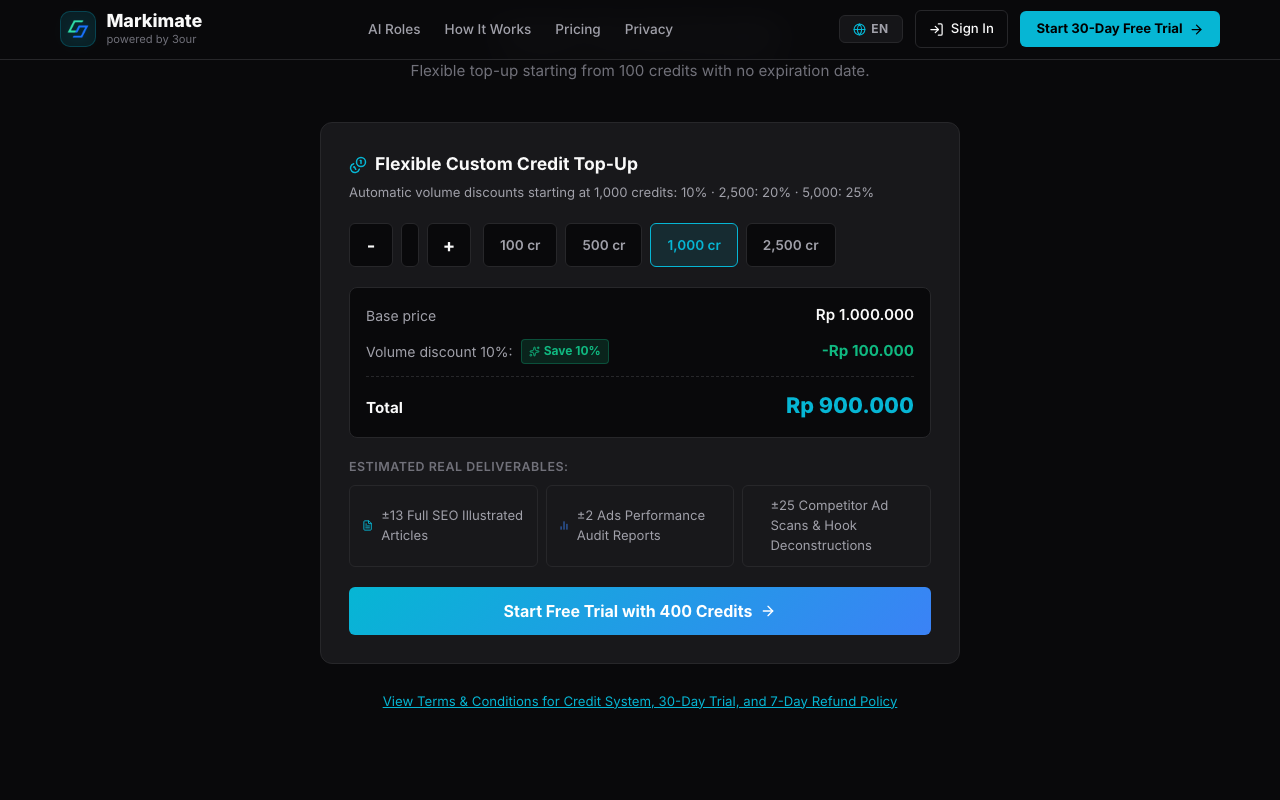
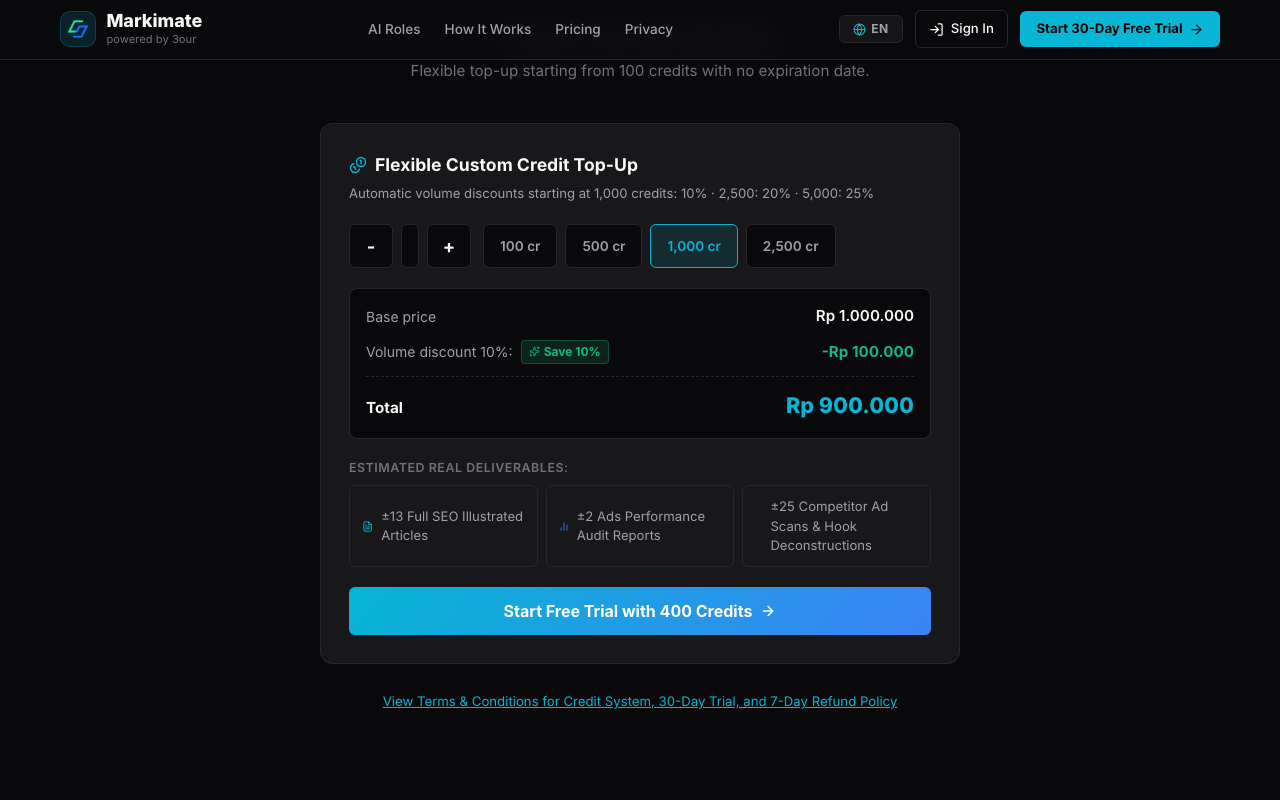
feat(pricing): hapus paket 500 cr, starter mulai 1000 cr dan highlight pro (PRD F16b)

diff --git a/backend/tests/pack-checkout.test.js b/backend/tests/pack-checkout.test.js
@@ -166,22 +166,31 @@ async function runPackCheckoutTests() {
   assert.strictEqual(payment2500.item_id, 'pack_2500');
   console.log('   OK - Checkout pack_2500 sukses dengan prefix P dan amount server-calculated.');
 
-  // 2b. Checkout pack_500 -> amount 500.000 dan credits 500 (PRD F16b §4)
-  console.log('2b. Menguji checkout pack_500 (Rp500.000, 500 credits)...');
+  // 2b. Checkout pack_1000 -> amount 900.000 dan credits 1000 (Starter)
+  console.log('2b. Menguji checkout pack_1000 (Rp900.000, 1000 credits, Starter)...');
+  const res1000 = await req('/api/billing/pack', {
+    method: 'POST',
+    headers: authHeaders,
+    body: { itemId: 'pack_1000', amount: 999 }
+  });
+  assert.strictEqual(res1000.status, 200, 'Checkout pack_1000 harus 200 OK');
+  assert.strictEqual(res1000.data.amount, 900000, 'Server wajib menagih Rp900.000 untuk pack_1000');
+
+  const payment1000 = await db.findOne('payments', { invoice_number: res1000.data.invoiceNumber });
+  assert.strictEqual(payment1000.amount, 900000);
+  assert.strictEqual(payment1000.credits, 1000);
+  assert.strictEqual(payment1000.kind, 'pack');
+  assert.strictEqual(payment1000.item_id, 'pack_1000');
+  console.log('   OK - Checkout pack_1000 sukses dengan amount Rp900.000.');
+
+  // 2c. pack_500 sudah dihapus -> 400 INVALID_PACK
   const res500 = await req('/api/billing/pack', {
     method: 'POST',
     headers: authHeaders,
-    body: { itemId: 'pack_500', amount: 999 }
+    body: { itemId: 'pack_500' }
   });
-  assert.strictEqual(res500.status, 200, 'Checkout pack_500 harus 200 OK');
-  assert.strictEqual(res500.data.amount, 500000, 'Server wajib menagih Rp500.000 untuk pack_500');
-
-  const payment500 = await db.findOne('payments', { invoice_number: res500.data.invoiceNumber });
-  assert.strictEqual(payment500.amount, 500000);
-  assert.strictEqual(payment500.credits, 500);
-  assert.strictEqual(payment500.kind, 'pack');
-  assert.strictEqual(payment500.item_id, 'pack_500');
-  console.log('   OK - Checkout pack_500 sukses dengan amount Rp500.000.');
+  assert.strictEqual(res500.status, 400, 'pack_500 yang sudah dihapus harus menghasilkan 400');
+  assert.strictEqual(res500.data.code, 'INVALID_PACK');
 
   // 3. Validasi itemId tidak dikenal -> 400 INVALID_PACK (PRD F16 §7)
   console.log('3. Menguji validasi itemId pack tidak dikenal -> 400...');

diff --git a/backend/tests/pricing-parity.test.js b/backend/tests/pricing-parity.test.js
@@ -46,8 +46,8 @@ async function runPricingParityTests() {
 
   // 2. Uji Kesetaraan dan Rumus Matematis CREDIT_PACKS
   console.log('2. Memverifikasi kesetaraan dan rumus harga CREDIT_PACKS (BE vs FE)...');
-  assert.deepStrictEqual(Object.keys(BE_CREDIT_PACKS), ['pack_500', 'pack_1000', 'pack_2500', 'pack_5000']);
-  assert.deepStrictEqual(Object.keys(FE_CREDIT_PACKS), ['pack_500', 'pack_1000', 'pack_2500', 'pack_5000']);
+  assert.deepStrictEqual(Object.keys(BE_CREDIT_PACKS), ['pack_1000', 'pack_2500', 'pack_5000']);
+  assert.deepStrictEqual(Object.keys(FE_CREDIT_PACKS), ['pack_1000', 'pack_2500', 'pack_5000']);
 
   for (const packKey of Object.keys(BE_CREDIT_PACKS)) {
     const bePack = BE_CREDIT_PACKS[packKey];
@@ -68,10 +68,11 @@ async function runPricingParityTests() {
     );
   }
 
-  // Nilai nominal spesifik PRD F16b §2
-  assert.strictEqual(BE_CREDIT_PACKS.pack_500.price, 500000, 'Starter 500 must be Rp500.000 (0% diskon)');
-  assert.strictEqual(BE_CREDIT_PACKS.pack_500.discount, 0, 'Starter 500 discount must be 0');
-  assert.strictEqual(BE_CREDIT_PACKS.pack_1000.price, 900000, 'Growth 1000 must be Rp900.000 (-10%)');
+  // Nilai nominal spesifik: Starter 1000, Pro 2500, Agency 5000
+  assert.strictEqual(BE_CREDIT_PACKS.pack_500, undefined, 'pack_500 harus dihapus');
+  assert.strictEqual(BE_CREDIT_PACKS.pack_1000.name, 'Starter', 'pack_1000 name must be Starter');
+  assert.strictEqual(BE_CREDIT_PACKS.pack_1000.price, 900000, 'Starter 1000 must be Rp900.000 (-10%)');
+  assert.strictEqual(BE_CREDIT_PACKS.pack_1000.discount, 0.10, 'Starter 1000 discount must be 10%');
   assert.strictEqual(BE_CREDIT_PACKS.pack_2500.price, 2000000, 'Pro 2500 must be Rp2.000.000 (-20%)');
   assert.strictEqual(BE_CREDIT_PACKS.pack_5000.price, 3750000, 'Agency 5000 must be Rp3.750.000 (-25%)');
 
@@ -148,7 +149,7 @@ async function runPricingParityTests() {
   assert.strictEqual(cat.topup.min, 100);
   assert.strictEqual(cat.topup.neverExpires, true);
   assert.deepStrictEqual(cat.topup.tiers, BE_TOPUP.tiers);
-  assert.strictEqual(cat.packs.length, 4, 'getCatalog() wajib memuat 4 paket credit');
+  assert.strictEqual(cat.packs.length, 3, 'getCatalog() wajib memuat 3 paket credit (Starter 1000, Pro 2500, Agency 5000)');
   assert.strictEqual(cat.trial.days, 30);
   assert.strictEqual(cat.trial.credits, 400);
 

diff --git a/frontend/src/i18n/locales/en/public.js b/frontend/src/i18n/locales/en/public.js
@@ -148,7 +148,7 @@ export const publicTranslations = {
     "q9": "Is there a money-back refund guarantee?",
     "a9": "Full refund within {days} calendar days of purchase if none of the credits from that purchase have been used.",
     "q10": "What happens if my credit balance runs out?",
-    "a10": "You can easily replenish your balance anytime via 4 credit pack options (10–25% discount starting from 1,000 credits) or custom top-up starting from {min} credits, and the same discount applies automatically to custom top-up. Credits are added instantly and never expire."
+    "a10": "You can easily replenish your balance anytime via 3 credit pack options (10–25% discount starting from 1,000 credits) or custom top-up starting from {min} credits, and the same discount applies automatically to custom top-up. Credits are added instantly and never expire."
   },
   "finalCta": {
     "title": "Ready to Scale Your Marketing with AI?",

diff --git a/frontend/src/i18n/locales/id/public.js b/frontend/src/i18n/locales/id/public.js
@@ -148,7 +148,7 @@ export const publicTranslations = {
     "q9": "Apakah ada garansi uang kembali (refund)?",
     "a9": "Refund penuh dalam {days} hari kalender jika kredit dari pembelian tersebut belum digunakan sama sekali.",
     "q10": "Bagaimana jika saldo kredit habis di tengah pemakaian?",
-    "a10": "Anda dapat mengisi ulang saldo secara fleksibel kapan saja melalui 4 pilihan paket kredit (diskon 10–25% mulai 1.000 kredit) atau top-up custom mulai {min} kredit, dan diskon yang sama berlaku otomatis di top-up custom. Kredit langsung masuk dan tidak pernah hangus."
+    "a10": "Anda dapat mengisi ulang saldo secara fleksibel kapan saja melalui 3 pilihan paket kredit (diskon 10–25% mulai 1.000 kredit) atau top-up custom mulai {min} kredit, dan diskon yang sama berlaku otomatis di top-up custom. Kredit langsung masuk dan tidak pernah hangus."
   },
   "finalCta": {
     "title": "Siap Tingkatkan Pemasaran dengan Tim AI?",

diff --git a/frontend/src/components/BillingPage.jsx b/frontend/src/components/BillingPage.jsx
@@ -168,7 +168,7 @@ export default function BillingPage({ refreshMe }) {
       <div style={styles.packsGrid}>
         {Object.values(CREDIT_PACKS).map((pack) => {
           const discountPct = Math.round(pack.discount * 100);
-          const isPopular = pack.id === 'pack_1000';
+          const isPopular = pack.id === 'pack_2500';
           return (
             <div
               key={pack.id}
@@ -186,7 +186,7 @@ export default function BillingPage({ refreshMe }) {
               )}
               <div style={{ display: 'flex', justifyContent: 'space-between', alignItems: 'center' }}>
                 <h3 style={styles.packName}>{pack.name}</h3>
-                {!isPopular && discountPct > 0 && (
+                {discountPct > 0 && (
                   <span style={styles.discountBadge}>
                     {t('billing.savePctBadge', { pct: discountPct })}
                   </span>

diff --git a/frontend/src/pages/public/LandingPage.jsx b/frontend/src/pages/public/LandingPage.jsx
@@ -551,7 +551,7 @@ export default function LandingPage({ scrollToPricing = false }) {
             <div style={styles.packsGrid}>
               {Object.values(CREDIT_PACKS).map((pack) => {
                 const discountPct = Math.round(pack.discount * 100);
-                const isPopular = pack.id === 'pack_1000';
+                const isPopular = pack.id === 'pack_2500';
                 return (
                   <div
                     key={pack.id}

diff --git a/frontend/src/pages/billing/CreditWalletPage.jsx b/frontend/src/pages/billing/CreditWalletPage.jsx
@@ -411,7 +411,7 @@ export default function CreditWalletPage({ me, onTopupClick }) {
       <div style={styles.packsGrid}>
         {Object.values(CREDIT_PACKS).map((pack) => {
           const discountPct = Math.round(pack.discount * 100);
-          const isPopular = pack.id === 'pack_1000';
+          const isPopular = pack.id === 'pack_2500';
           const isBuyingThis = topupBusy === pack.id;
           return (
             <div

diff --git a/backend/lib/catalog.js b/backend/lib/catalog.js
@@ -82,8 +82,7 @@ export function quoteTopup(credits) {
 // PRD F16b §3.1: Harga paket DITURUNKAN dari quoteTopup, bukan ditulis langsung
 export const CREDIT_PACKS = Object.fromEntries(
   [
-    ['pack_500', 'Starter', 500],
-    ['pack_1000', 'Growth', 1000],
+    ['pack_1000', 'Starter', 1000],
     ['pack_2500', 'Pro', 2500],
     ['pack_5000', 'Agency', 5000]
   ].map(([id, name, credits]) => [

diff --git a/frontend/src/config/pricing.js b/frontend/src/config/pricing.js
@@ -82,8 +82,7 @@ export function quoteTopup(credits) {
 // PRD F16b §3.1: Harga paket DITURUNKAN dari quoteTopup, bukan ditulis langsung
 export const CREDIT_PACKS = Object.fromEntries(
   [
-    ['pack_500', 'Starter', 500],
-    ['pack_1000', 'Growth', 1000],
+    ['pack_1000', 'Starter', 1000],
     ['pack_2500', 'Pro', 2500],
     ['pack_5000', 'Agency', 5000]
   ].map(([id, name, credits]) => [

diff --git a/docs/reports/F16b-diskon-volume.md b/docs/reports/F16b-diskon-volume.md
@@ -20,10 +20,10 @@ Sesuai keputusan 3Our pada PRD F16b:
   - ≥ 5.000 (maks 50.000): 25% diskon (Rp750/cr)
 - **Satu aturan harga tunggal:** Harga untuk N credit selalu sama, baik dibeli lewat paket credit maupun top-up custom.
 - **Harga paket kredit DITURUNKAN dari `quoteTopup(credits).amount`**, bukan di-hardcode:
-  - Starter (500 cr): Rp500.000 (diskon 0%, tanpa badge diskon)
-  - Growth (1.000 cr): Rp900.000 (diskon 10%, badge Hemat 10% · Paling populer)
-  - Pro (2.500 cr): Rp2.000.000 (diskon 20%, badge Hemat 20%)
+  - Starter (1.000 cr): Rp900.000 (diskon 10%, badge Hemat 10%)
+  - Pro (2.500 cr): Rp2.000.000 (diskon 20%, badge Hemat 20% · BEST VALUE / Paling Populer)
   - Agency (5.000 cr): Rp3.750.000 (diskon 25%, badge Hemat 25%)
+  - *(Paket 500 cr dihapus dari daftar paket kredit; kredit mulai dari 1.000 cr untuk paket, sedangkan nominal di bawah 1.000 cr dapat dibeli via Custom Top-Up)*.
 
 ---
 
@@ -196,43 +196,43 @@ Pengambilan screenshot dilakukan menggunakan Google Chrome Headless CDP (`captur
 
 | No | File Screenshot | Viewport | Bahasa | Ukuran Byte | Hash MD5 | Cek Overflow 390px (`scrollWidth <= innerWidth`) |
 |---|---|---|---|---|---|---|
-| 1 | `f16b-calc-500-en-1280.png` | 1280px | EN | 94.981 B | `175ba521468c229c0a4f4f91f8cdfcf4` | OK |
-| 2 | `f16b-calc-500-en-390.png` | 390px | EN | 172.704 B | `a06df02db231a6248f58b870e99c4523` | OK |
-| 3 | `f16b-calc-500-id-1280.png` | 1280px | ID | 91.424 B | `9ee94d8ef4c253b01d80e4b0a5c0e5e7` | OK |
-| 4 | `f16b-calc-500-id-390.png` | 390px | ID | 175.065 B | `c9a5a2e37af184ad159de876abcb4d37` | OK |
-| 5 | `f16b-calc-1000-en-1280.png` | 1280px | EN | 96.029 B | `f37abac8148b485f3b6d313179efa661` | OK |
-| 6 | `f16b-calc-1000-en-390.png` | 390px | EN | 164.473 B | `07b68625c83feafeb8e53fd1b5b47c58` | OK |
-| 7 | `f16b-calc-1000-id-1280.png` | 1280px | ID | 92.615 B | `07c5d6121000413ceba617e97ec06623` | OK |
-| 8 | `f16b-calc-1000-id-390.png` | 390px | ID | 177.758 B | `26fe573bca984d68a0d216dbb846cea1` | OK |
-| 9 | `f16b-packs-en-1280.png` | 1280px | EN | 139.611 B | `7c3d547a863693dfe20c5c15433ded67` | OK |
-| 10 | `f16b-packs-en-390.png` | 390px | EN | 141.799 B | `a7d80128c131730cf7334c6331aacd5c` | OK |
-| 11 | `f16b-packs-id-1280.png` | 1280px | ID | 124.104 B | `8a5278210532cde3129c71c4e8f7f07d` | OK |
-| 12 | `f16b-packs-id-390.png` | 390px | ID | 135.540 B | `ce3045ac36c193a9224ed10a8d9c9496` | OK |
+| 1 | `f16b-calc-500-en-1280.png` | 1280px | EN | 93.803 B | `428b3a73e373b204e5374655e6481a43` | OK |
+| 2 | `f16b-calc-500-en-390.png` | 390px | EN | 173.194 B | `d642fe1250a8204d194d5bb75b649337` | OK |
+| 3 | `f16b-calc-500-id-1280.png` | 1280px | ID | 91.163 B | `2e15d98f6d78fa548ea97b34c679b9f5` | OK |
+| 4 | `f16b-calc-500-id-390.png` | 390px | ID | 175.250 B | `1ca20b73f089efaf5fa5a1611d047b05` | OK |
+| 5 | `f16b-calc-1000-en-1280.png` | 1280px | EN | 95.092 B | `0a113de16d2b9c0bfc682d50febdb5d1` | OK |
+| 6 | `f16b-calc-1000-en-390.png` | 390px | EN | 164.414 B | `91194721d20147d2df3087be7367fa7c` | OK |
+| 7 | `f16b-calc-1000-id-1280.png` | 1280px | ID | 92.679 B | `dc6f259348395f0f05c6522b7aa6a340` | OK |
+| 8 | `f16b-calc-1000-id-390.png` | 390px | ID | 177.989 B | `09ab5ee853f49688f6df86eaed1219ad` | OK |
+| 9 | `f16b-packs-en-1280.png` | 1280px | EN | 111.568 B | `24f4c2f2b26ba0365e0cfb9c643d96b2` | OK |
+| 10 | `f16b-packs-en-390.png` | 390px | EN | 137.561 B | `9f0d2ef1a91d77e8b55e337f2e17788d` | OK |
+| 11 | `f16b-packs-id-1280.png` | 1280px | ID | 111.022 B | `00a1eed9db56ab0cfd57ad3da170cb0f` | OK |
+| 12 | `f16b-packs-id-390.png` | 390px | ID | 137.679 B | `536569e0603f4ea9e1dc31fd259d8a11` | OK |
 | 13 | `f16b-wallet-calc-500-id-390.png` | 390px | ID | 155.703 B | `5700b1a270ee499672bba2450e74f8dd` | OK |
 | 14 | `f16b-wallet-calc-1000-id-390.png` | 390px | ID | 158.546 B | `e367909f466357c28a979785a9ecaa9a` | OK |
-| 15 | `f16b-wallet-packs-id-390.png` | 390px | ID | 158.363 B | `4090c036682f608b6eed01b83e752a21` | OK |
-| 16 | `f16b-wallet-id-1280.png` | 1280px | ID | 150.184 B | `d465dadde3c891db6fe97be68dfdb8a9` | OK |
+| 15 | `f16b-wallet-packs-id-390.png` | 390px | ID | 142.228 B | `f167c38e81a46d97b1aaba0882c47b84` | OK |
+| 16 | `f16b-wallet-id-1280.png` | 1280px | ID | 150.271 B | `a5a6557f9146fc6b30959e1e743f39ec` | OK |
 
 **Verifikasi Integritas:** 16 dari 16 screenshot 100% UNIK dan tidak ada satupun hash MD5 yang sama.
 
 ### Output `ls -l docs/reports/img/f16b*`
 ```
--rw-r--r--@ 1 mm  staff   96029 Oct 23 17:11 docs/reports/img/f16b-calc-1000-en-1280.png
--rw-r--r--@ 1 mm  staff  164473 Oct 23 17:12 docs/reports/img/f16b-calc-1000-en-390.png
--rw-r--r--@ 1 mm  staff   92615 Oct 23 17:12 docs/reports/img/f16b-calc-1000-id-1280.png
--rw-r--r--@ 1 mm  staff  177758 Oct 23 17:12 docs/reports/img/f16b-calc-1000-id-390.png
--rw-r--r--@ 1 mm  staff   94981 Oct 23 17:11 docs/reports/img/f16b-calc-500-en-1280.png
--rw-r--r--@ 1 mm  staff  172704 Oct 23 17:11 docs/reports/img/f16b-calc-500-en-390.png
--rw-r--r--@ 1 mm  staff   91424 Oct 23 17:11 docs/reports/img/f16b-calc-500-id-1280.png
--rw-r--r--@ 1 mm  staff  175065 Oct 23 17:11 docs/reports/img/f16b-calc-500-id-390.png
--rw-r--r--@ 1 mm  staff  139611 Oct 23 17:12 docs/reports/img/f16b-packs-en-1280.png
--rw-r--r--@ 1 mm  staff  141799 Oct 23 17:12 docs/reports/img/f16b-packs-en-390.png
--rw-r--r--@ 1 mm  staff  124104 Oct 23 17:12 docs/reports/img/f16b-packs-id-1280.png
--rw-r--r--@ 1 mm  staff  135540 Oct 23 17:12 docs/reports/img/f16b-packs-id-390.png
--rw-r--r--@ 1 mm  staff  158546 Oct 23 17:12 docs/reports/img/f16b-wallet-calc-1000-id-390.png
--rw-r--r--@ 1 mm  staff  155703 Oct 23 17:12 docs/reports/img/f16b-wallet-calc-500-id-390.png
--rw-r--r--@ 1 mm  staff  150184 Oct 23 17:12 docs/reports/img/f16b-wallet-id-1280.png
--rw-r--r--@ 1 mm  staff  158363 Oct 23 17:12 docs/reports/img/f16b-wallet-packs-id-390.png
+-rw-r--r--@ 1 mm  staff   95092 Oct 23 17:41 docs/reports/img/f16b-calc-1000-en-1280.png
+-rw-r--r--@ 1 mm  staff  164414 Oct 23 17:41 docs/reports/img/f16b-calc-1000-en-390.png
+-rw-r--r--@ 1 mm  staff   92679 Oct 23 17:41 docs/reports/img/f16b-calc-1000-id-1280.png
+-rw-r--r--@ 1 mm  staff  177989 Oct 23 17:41 docs/reports/img/f16b-calc-1000-id-390.png
+-rw-r--r--@ 1 mm  staff   93803 Oct 23 17:41 docs/reports/img/f16b-calc-500-en-1280.png
+-rw-r--r--@ 1 mm  staff  173194 Oct 23 17:41 docs/reports/img/f16b-calc-500-en-390.png
+-rw-r--r--@ 1 mm  staff   91163 Oct 23 17:41 docs/reports/img/f16b-calc-500-id-1280.png
+-rw-r--r--@ 1 mm  staff  175250 Oct 23 17:41 docs/reports/img/f16b-calc-500-id-390.png
+-rw-r--r--@ 1 mm  staff  111568 Oct 23 17:41 docs/reports/img/f16b-packs-en-1280.png
+-rw-r--r--@ 1 mm  staff  137561 Oct 23 17:41 docs/reports/img/f16b-packs-en-390.png
+-rw-r--r--@ 1 mm  staff  111022 Oct 23 17:42 docs/reports/img/f16b-packs-id-1280.png
+-rw-r--r--@ 1 mm  staff  137679 Oct 23 17:42 docs/reports/img/f16b-packs-id-390.png
+-rw-r--r--@ 1 mm  staff  158546 Oct 23 17:42 docs/reports/img/f16b-wallet-calc-1000-id-390.png
+-rw-r--r--@ 1 mm  staff  155703 Oct 23 17:42 docs/reports/img/f16b-wallet-calc-500-id-390.png
+-rw-r--r--@ 1 mm  staff  150271 Oct 23 17:42 docs/reports/img/f16b-wallet-id-1280.png
+-rw-r--r--@ 1 mm  staff  142228 Oct 23 17:42 docs/reports/img/f16b-wallet-packs-id-390.png
 ```
 
 ---
@@ -243,7 +243,7 @@ Pengambilan screenshot dilakukan menggunakan Google Chrome Headless CDP (`captur
 - **Kalkulator Top-up & Paket:**
   - 500 kredit: tanpa baris diskon, hint "tambah 500 kredit lagi untuk hemat 10%" tampil jelas.
   - 1.000 kredit: baris diskon −Rp100.000 dan total Rp900.000 tampil dengan badge Hemat 10%.
-  - Paket Starter Rp500.000 tanpa badge Hemat.
+  - Paket Starter mulai dari 1.000 kredit (Rp900.000) dengan diskon 10%, paket Pro (2.500 kredit, Rp2.000.000, diskon 20%) ditonjolkan dengan highlight BEST VALUE / Paling Populer, dan paket Agency (5.000 kredit, Rp3.750.000, diskon 25%).
 - **Tanpa SQL / Migrasi Database Baru:** Tidak ada perubahan skema database atau tabel baru.
 - **Tanpa Perubahan `automation/`:** Folder `automation/` tidak tersentuh sama sekali.
 - **Tanpa Transaksi Live:** Semua pengujian menggunakan mode mock / DB terisolasi.
